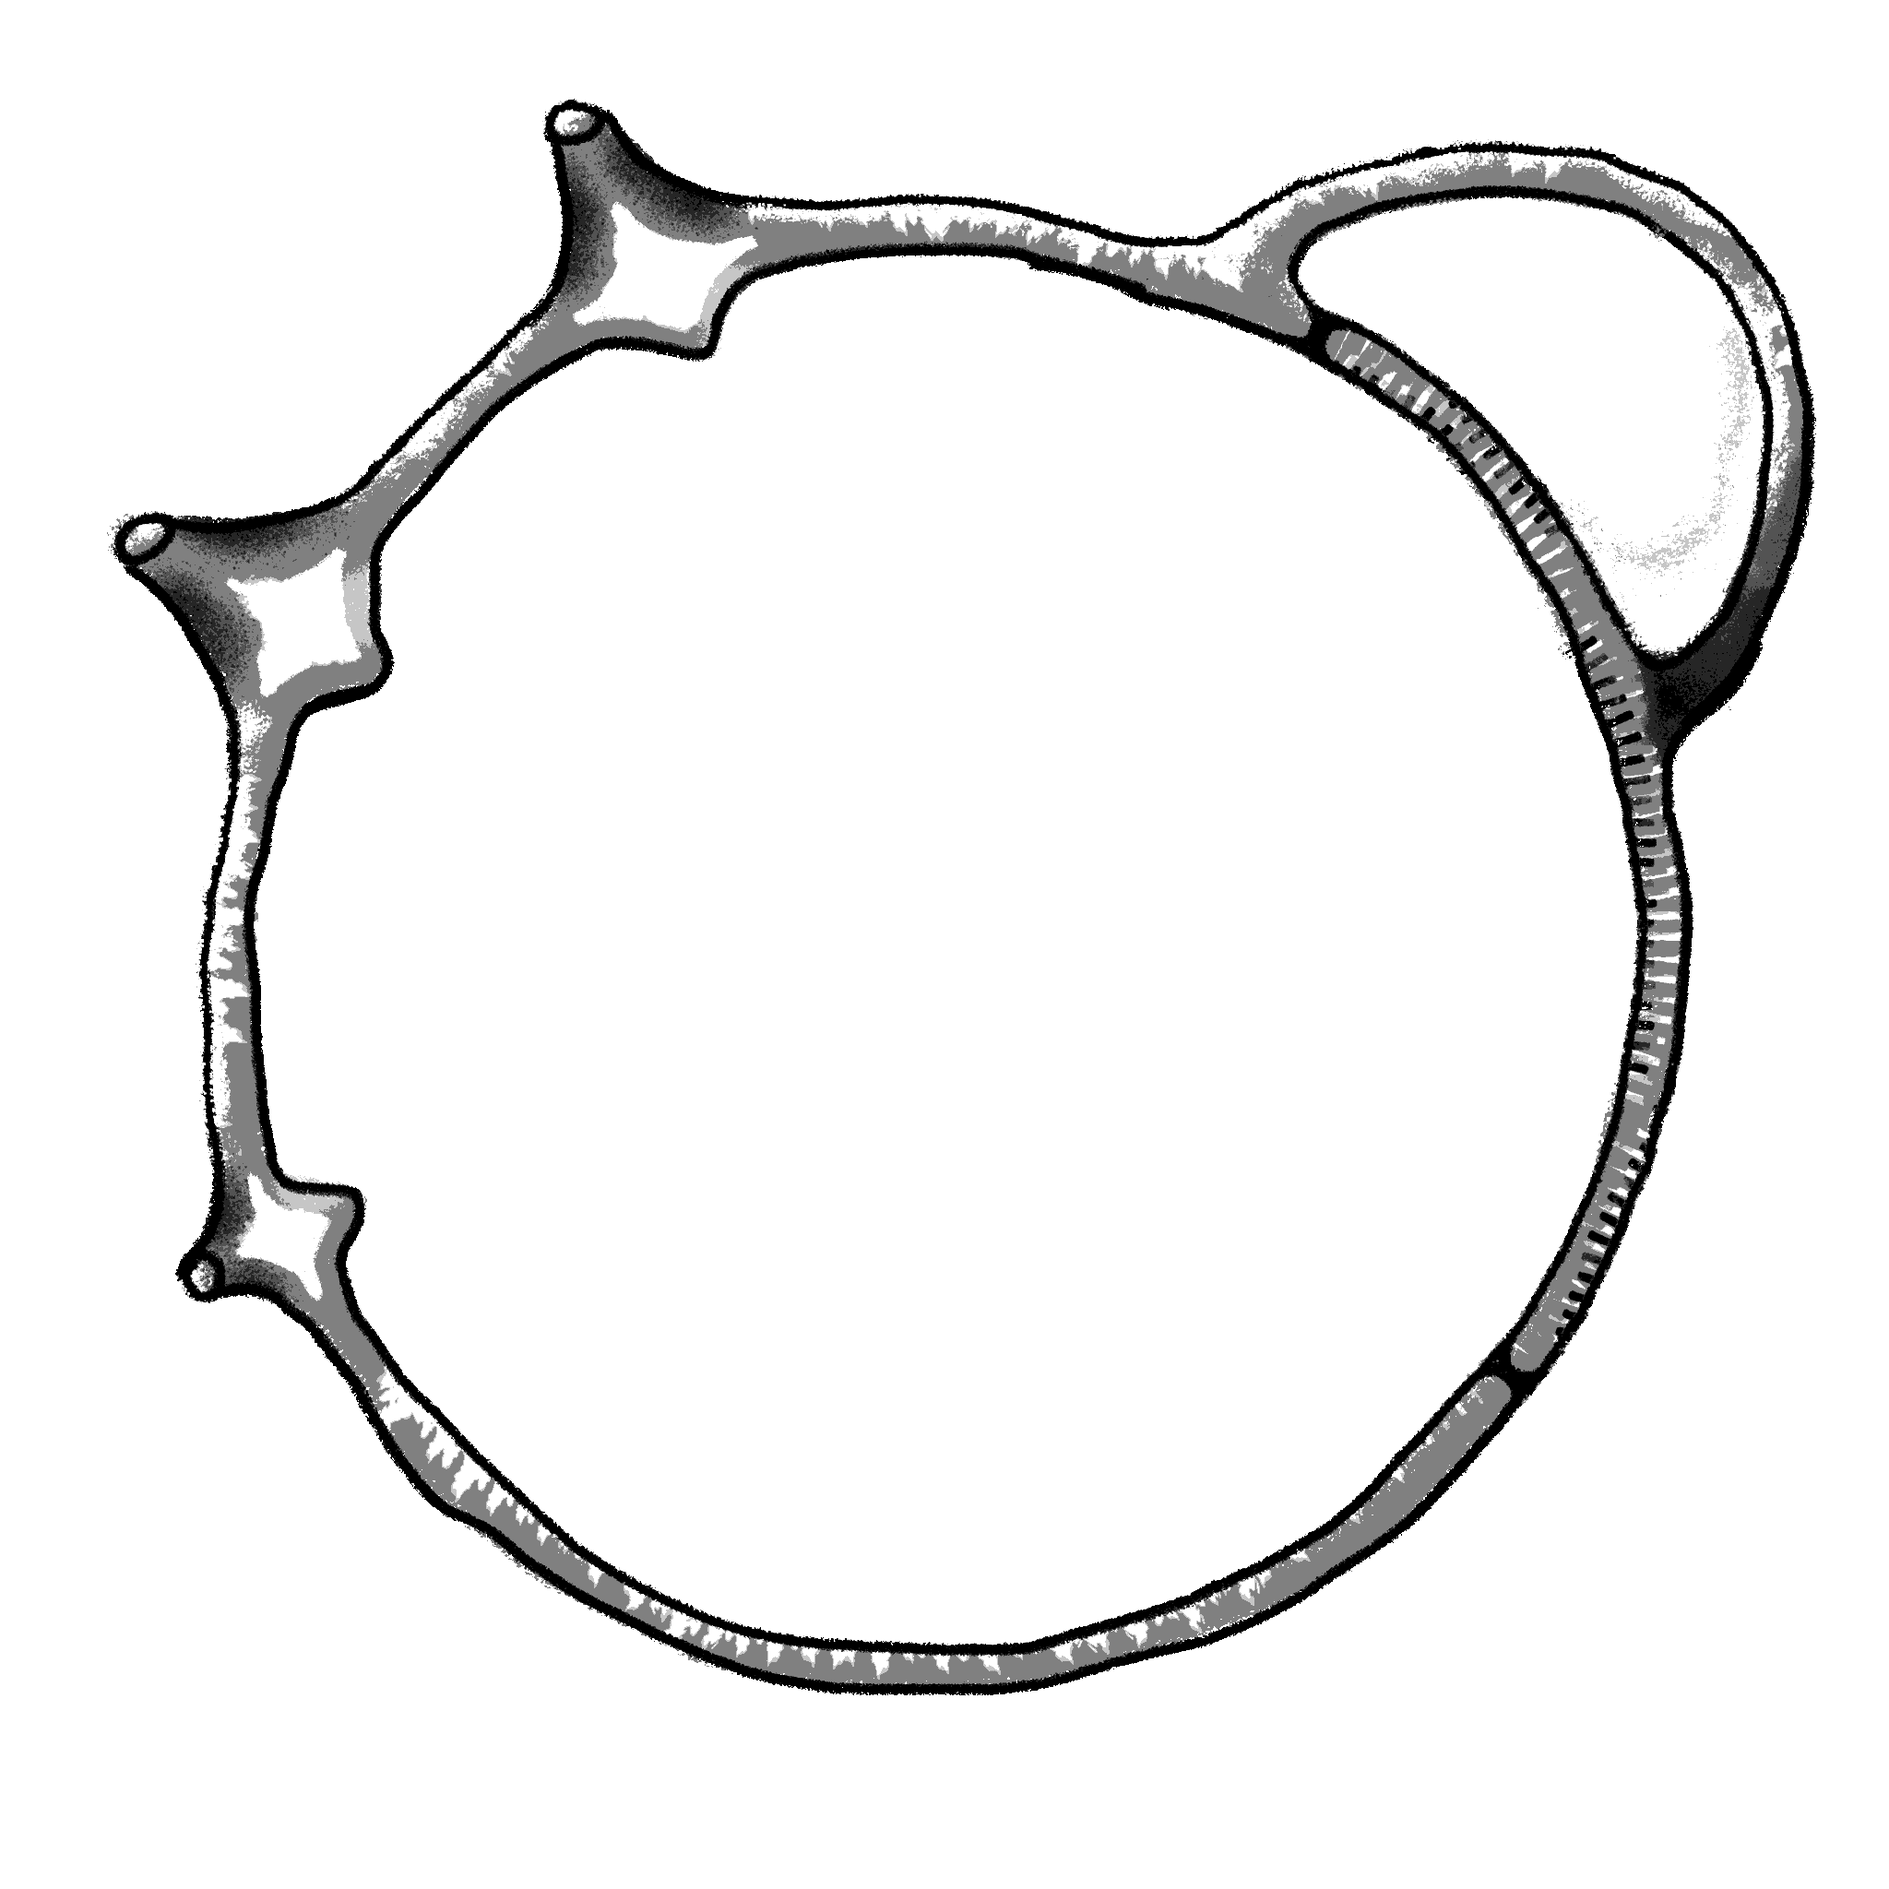
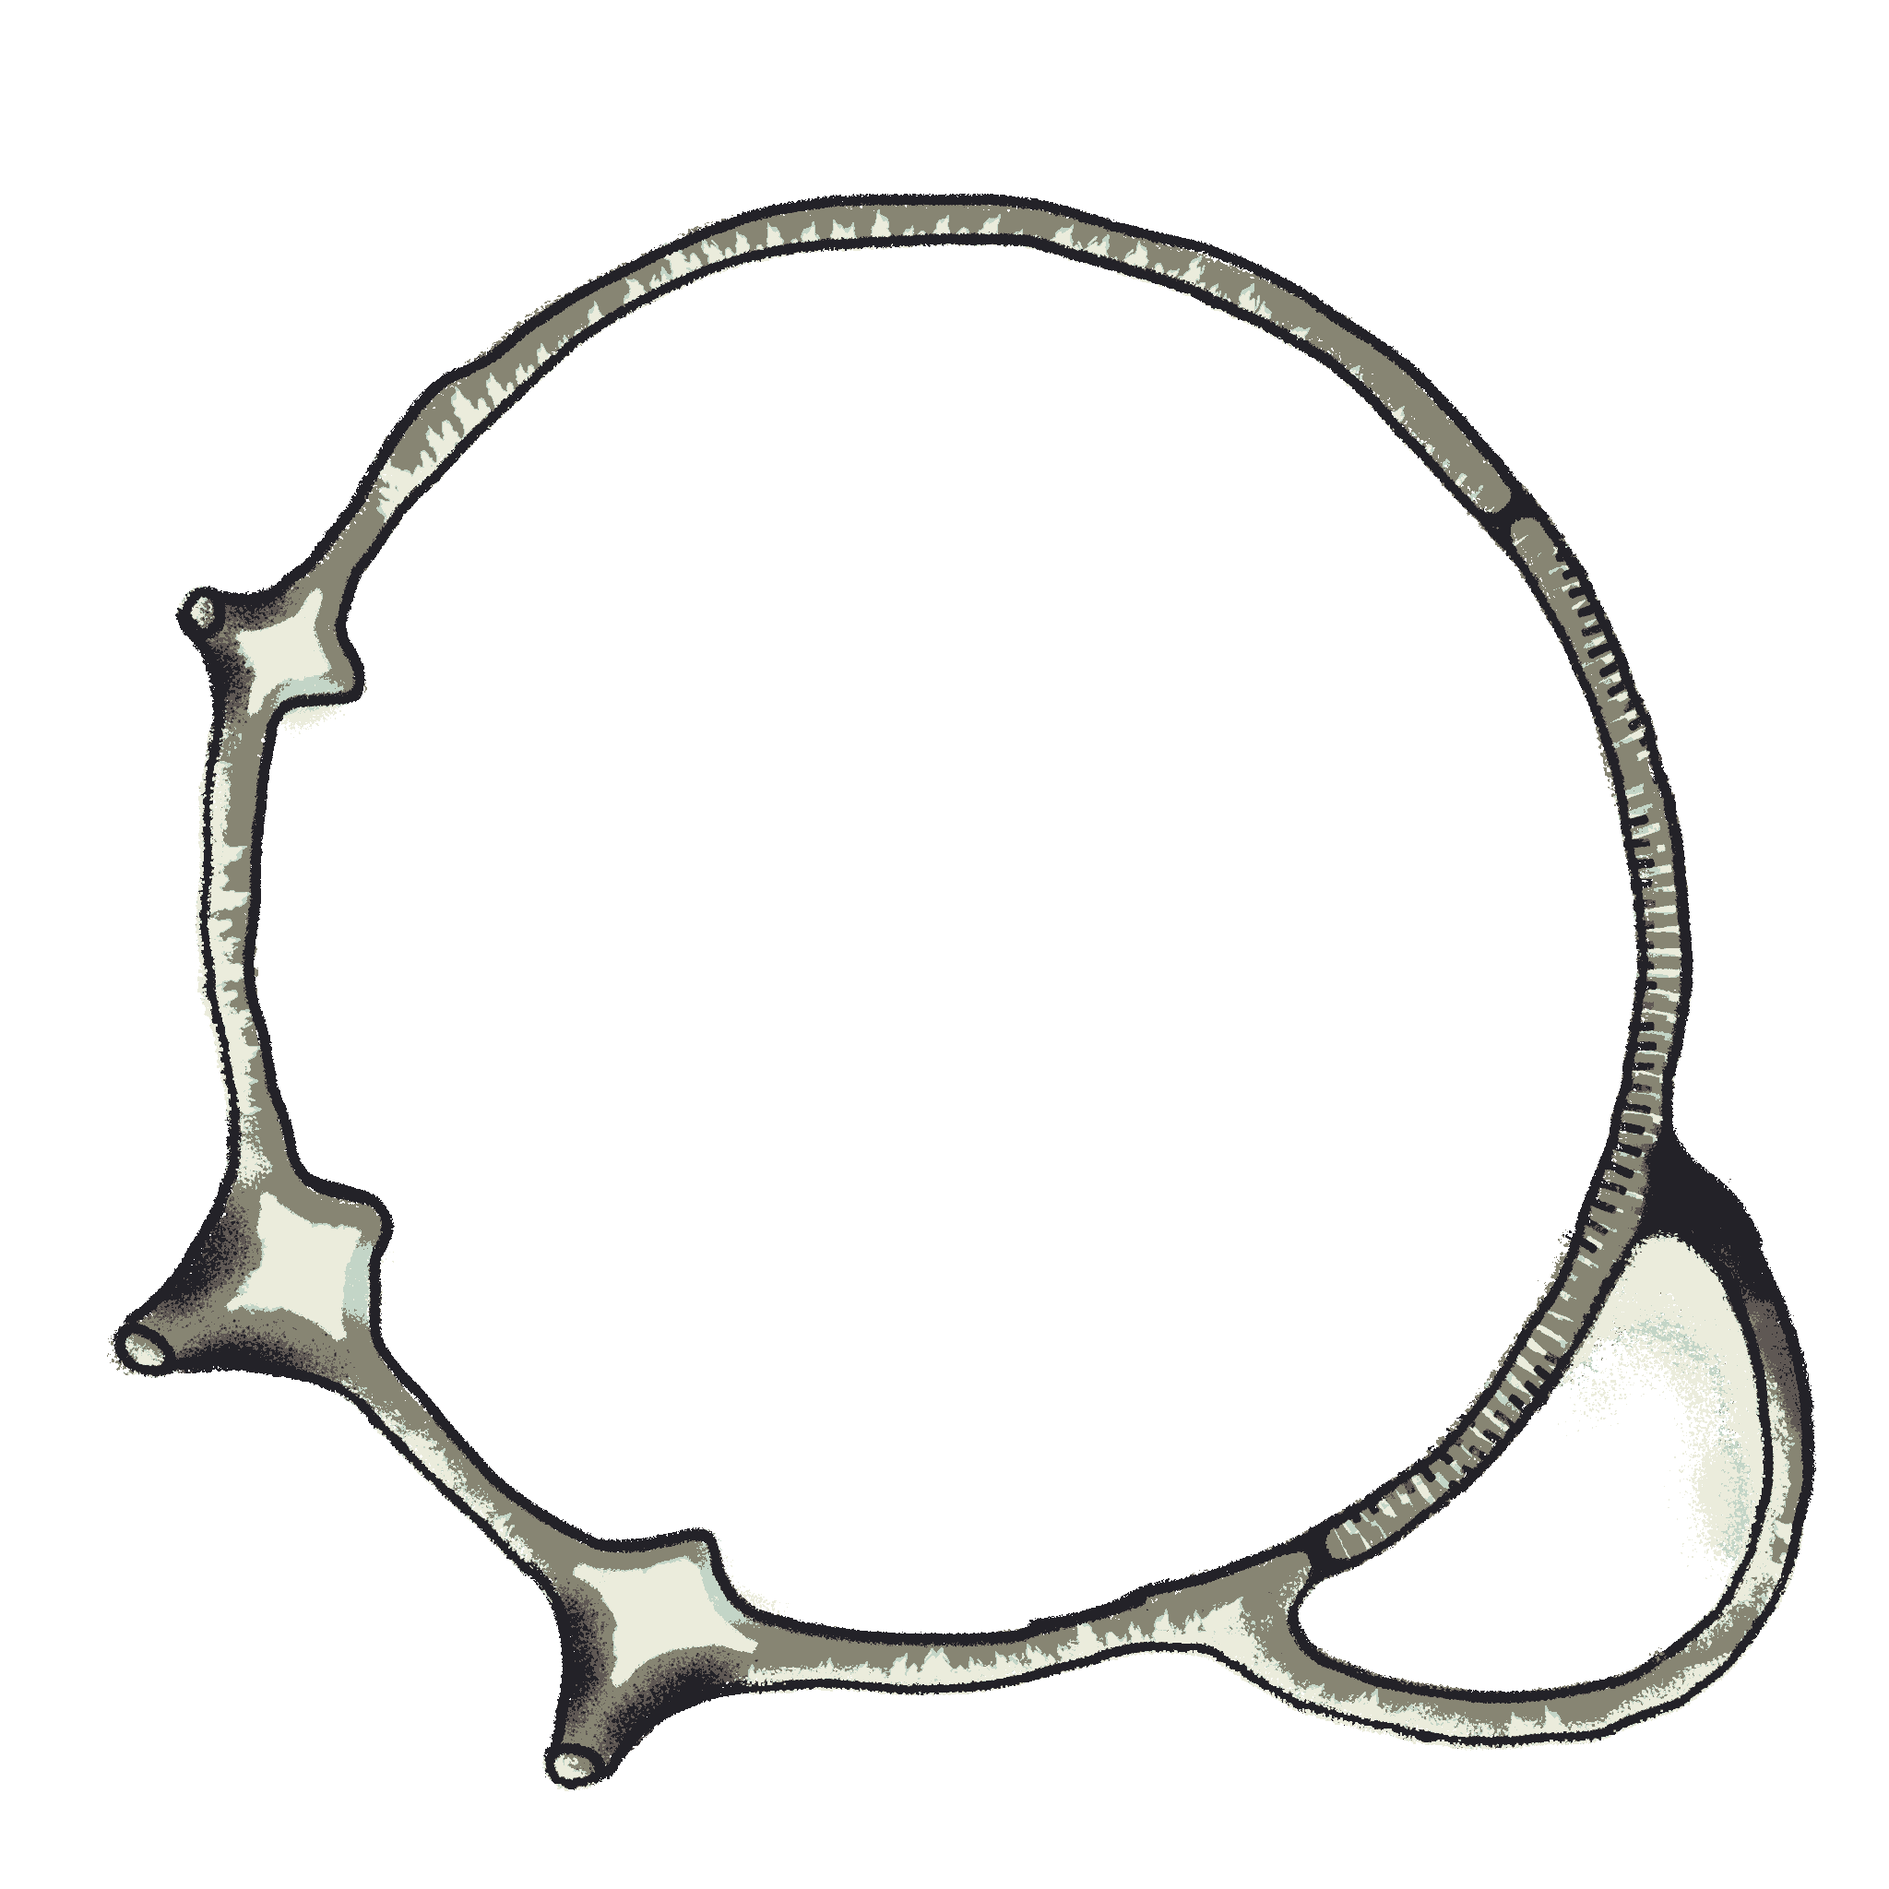
added some gui rotation baby

Changed region(s): [[0.0625, 0.0312, 0.9688, 0.9688]]

diff --git a/src/window/Main.java b/src/window/Main.java
@@ -5,17 +5,17 @@ import engine.Control;
 import engine.Manager;
 import engine.Scene;
 import object.Camera;
+import org.joml.Vector2f;
 import org.lwjgl.BufferUtils;
+import property.GUI;
 import resource.FBO;
 import org.lwjgl.opengl.GL;
+import resource.Material;
 import resource.Mesh;
 import resource.Resource;
 import scene.Dungeon;
 import scene.Forest;
-import shader.AABBShader;
-import shader.EntityShader;
-import shader.EnvironmentShader;
-import shader.FBOShader;
+import shader.*;
 
 import static org.lwjgl.glfw.GLFW.*;
 
@@ -25,8 +25,10 @@ public class Main extends Window {
     private FBOShader           fboShader;
     private AABBShader          aabbShader;
     private EnvironmentShader   environmentShader;
+    private GUIShader           guiShader;
 
     private FBO fbo;
+    private GUI gui;
 
     public static Scene scene;
 
@@ -41,11 +43,13 @@ public class Main extends Window {
 
     @Override
     public void setup() {
-        fboShader           = new FBOShader();
-        entityShader        = new EntityShader();
-        aabbShader          = new AABBShader();
-        environmentShader   = new EnvironmentShader();
+        fboShader           = new FBOShader(this);
+        entityShader        = new EntityShader(this);
+        aabbShader          = new AABBShader(this);
+        environmentShader   = new EnvironmentShader(this);
+        guiShader           = new GUIShader(this);
         fbo     = new FBO(1, width, height);
+        gui     = new GUI(new Material("ui"), new Vector2f(0.5f, 0.5f), new Vector2f(0.5f, 0.5f), 0);
         scene   = new Forest();
         Resource.process();
         Camera.listen();
@@ -64,6 +68,8 @@ public class Main extends Window {
         entityShader.render(scene);
         fboShader.unbind(fbo);
         fboShader.render(fbo);
+        gui.rotation += 0.001f;
+        guiShader.render(gui);
     }
 
 }

diff --git a/src/shader/Shader.java b/src/shader/Shader.java
@@ -9,6 +9,7 @@ import engine.Manager;
 import object.Camera;
 import org.joml.*;
 import resource.Material;
+import window.Window;
 
 import static org.lwjgl.glfw.GLFW.*;
 import static org.lwjgl.opengl.GL40.*;
@@ -22,7 +23,10 @@ public abstract class Shader<T> {
 
     protected final int program, vertex, fragment;
 
-    public Shader(String type, String... attributes) {
+    final Window window;
+
+    public Shader(Window window, String type, String... attributes) {
+        this.window = window;
         vertex      = loadShader("/resources/shader/" + type + "Vertex.glsl",     GL_VERTEX_SHADER);
         fragment    = loadShader("/resources/shader/" + type + "Fragment.glsl",   GL_FRAGMENT_SHADER);
         program     = glCreateProgram();
@@ -105,8 +109,8 @@ public abstract class Shader<T> {
                 while((line = reader.readLine())!=null){
                     if (line.startsWith("#version")) {
                         shaderSource.append("#version ").append(glfwGetWindowAttrib(Manager.main.handle, GLFW_CONTEXT_VERSION_MAJOR)).append(glfwGetWindowAttrib(Manager.main.handle, GLFW_CONTEXT_VERSION_MINOR)).append("0 core").append("//\n");
-                        shaderSource.append("#define WIDTH ").append(Manager.main.width).append("//\n");
-                        shaderSource.append("#define HEIGHT ").append(Manager.main.height).append("//\n");
+                        shaderSource.append("#define WIDTH ").append(window.width).append("//\n");
+                        shaderSource.append("#define HEIGHT ").append(window.height).append("//\n");
                         shaderSource.append("#define GRAYSCALE vec3(0.299, 0.587, 0.114)").append("//\n");
                         shaderSource.append("#define NEAR " + Camera.NEAR).append("//\n");
                         shaderSource.append("#define FAR " + Camera.FAR).append("//\n");

diff --git a/src/shader/FBOShader.java b/src/shader/FBOShader.java
@@ -5,6 +5,7 @@ import org.lwjgl.BufferUtils;
 import org.lwjgl.opengl.GL40;
 import resource.FBO;
 import resource.Mesh;
+import window.Window;
 
 import java.nio.IntBuffer;
 
@@ -12,8 +13,8 @@ import static org.lwjgl.opengl.GL40.*;
 
 public class FBOShader extends Shader<FBO> {
 
-    public FBOShader() {
-        super("fbo", "position");
+    public FBOShader(Window window) {
+        super(window, "fbo", "position");
     }
 
     private final IntBuffer oldViewport = BufferUtils.createIntBuffer(4);
@@ -24,7 +25,7 @@ public class FBOShader extends Shader<FBO> {
         glViewport(0, 0, fbo.width, fbo.height);
         glClearColor(0, 0, 0, 0);
         glClear(GL_COLOR_BUFFER_BIT | GL_DEPTH_BUFFER_BIT);
-        glEnable(GL_MULTISAMPLE);
+        //glEnable(GL_MULTISAMPLE);
         glDepthRange(0.0, 1.0);
         glClearDepth(1.0f);
         glEnable(GL_DEPTH_TEST);
@@ -46,14 +47,14 @@ public class FBOShader extends Shader<FBO> {
         glDisable(GL_DEPTH_TEST);
         uniform("width", fbo.width);
         uniform("height", fbo.height);
-        glBindVertexArray(Manager.main.quad.vao);
+        glBindVertexArray(window.quad.vao);
         glEnableVertexAttribArray(0);
         for (int i = 0; i < fbo.textures.length; i++) {
             uniform("texture" + (i + 1), i + 1);
             glActiveTexture(GL_TEXTURE0 + (i + 1));
             glBindTexture(GL_TEXTURE_2D, fbo.textures[i]);
         }
-        glDrawElements(GL_TRIANGLES, Manager.main.quad.index, GL_UNSIGNED_INT, 0);
+        glDrawElements(GL_TRIANGLES, window.quad.index, GL_UNSIGNED_INT, 0);
         for (int i = 0; i < fbo.textures.length; i++) {
             glActiveTexture(GL_TEXTURE0 + (i + 1));
             glBindTexture(GL_TEXTURE_2D, 0);

diff --git a/src/object/Camera.java b/src/object/Camera.java
@@ -21,14 +21,14 @@ public class Camera implements Machine {
     public static final Vector3f position = new Vector3f(0, 1.7f, 0);
 
     public static final float RANGE = 7.5f;
-    public static final float DEFAULT_FOV = 75;
+    public static final float DEFAULT_FOV = 90;
     public static final float SPEED = 0.015f;
     public static final float SENS  = 0.15f;
     public static final float SLOPE = 0.7071f;
     public static final float NEAR  = 0.1f;
     public static final float FAR   = Byte.MAX_VALUE * 2;
 
-    private static float FOV = 75;
+    private static float FOV = 90;
     private static float BOB = 0;
 
     public static Entity intersecting   = null;
@@ -90,7 +90,7 @@ public class Camera implements Machine {
             }
         }
         if (glfwGetInputMode(Manager.main.handle, GLFW_CURSOR) != GLFW_CURSOR_DISABLED) {
-            FOV = Math.clamp(DEFAULT_FOV, 90, FOV - (20f / Manager.RATE));
+            FOV = Math.clamp(DEFAULT_FOV, 110, FOV - (20f / Manager.RATE));
             return;
         }
         rotation.add(0, Control.dx() * -SENS, 0);
@@ -161,9 +161,9 @@ public class Camera implements Machine {
                 BOB -= 7.5f;
             }
             Camera.position.y += Math.sin(Math.toRadians(BOB)) / 30.0f;
-            FOV = Math.clamp(DEFAULT_FOV, 90, FOV + (20f / Manager.RATE));
+            FOV = Math.clamp(DEFAULT_FOV, 110, FOV + (20f / Manager.RATE));
         } else {
-            FOV = Math.clamp(DEFAULT_FOV, 90, FOV - (20f / Manager.RATE));
+            FOV = Math.clamp(DEFAULT_FOV, 110, FOV - (20f / Manager.RATE));
         }
     }
 

diff --git a/src/shader/GUIShader.java b/src/shader/GUIShader.java
@@ -7,25 +7,25 @@ import property.GUI;
 import resource.Mesh;
 import window.Main;
 import window.Map;
+import window.Window;
 
 import static org.lwjgl.opengl.GL40.*;
 
 public class GUIShader extends Shader<GUI> {
 
-    public GUIShader() {
-        super("GUI", "position");
+    public GUIShader(Window window) {
+        super(window, "GUI", "position");
         start();
         uniform("texture1", 0);
         stop();
     }
-
 
     @Override
     protected void shader(GUI gui) {
         glDisable(GL_DEPTH_TEST);
         glEnable(GL_BLEND);
         glBlendFunc(GL_SRC_ALPHA, GL_ONE_MINUS_SRC_ALPHA);
-        glBindVertexArray(Manager.map.quad.vao);
+        glBindVertexArray(window.quad.vao);
         glEnableVertexAttribArray(0);
         glEnableVertexAttribArray(1);
         glActiveTexture(GL_TEXTURE0);
@@ -33,7 +33,8 @@ public class GUIShader extends Shader<GUI> {
         uniform("texture1", 0);
         uniform("guiPosition", gui.position);
         uniform("guiScale", gui.scale);
-        glDrawElements(GL_TRIANGLES, Manager.map.quad.index, GL_UNSIGNED_INT, 0);
+        uniform("guiRotation", gui.rotation);
+        glDrawElements(GL_TRIANGLES, window.quad.index, GL_UNSIGNED_INT, 0);
         glBindTexture(GL_TEXTURE_2D, 0);
         glDisableVertexAttribArray(0);
         glDisableVertexAttribArray(1);

diff --git a/src/window/Window.java b/src/window/Window.java
@@ -44,9 +44,9 @@ public abstract class Window {
         glfwWindowHint(GLFW_VISIBLE, GLFW_FALSE);
         glfwWindowHint(GLFW_RESIZABLE, GLFW_FALSE);
         glfwWindowHint(GLFW_SCALE_TO_MONITOR, GLFW_TRUE);
-        //glfwWindowHint(GLFW_TRANSPARENT_FRAMEBUFFER, GLFW_TRUE);
-        //glfwWindowHint(GLFW_DECORATED, GLFW_FALSE);
-        glfwWindowHint(GLFW_SAMPLES, 4);
+        glfwWindowHint(GLFW_TRANSPARENT_FRAMEBUFFER, GLFW_TRUE);
+        glfwWindowHint(GLFW_DECORATED, GLFW_FALSE);
+        //glfwWindowHint(GLFW_SAMPLES, 4);
         glfwWindowHint(GLFW_FLOATING, GLFW_FALSE);
         glfwWindowHint(GLFW_AUTO_ICONIFY, GLFW_FALSE);
         glfwWindowHint(GLFW_FOCUSED, this instanceof Main ? GLFW_TRUE : GLFW_FALSE);
@@ -84,9 +84,9 @@ public abstract class Window {
             }
         }.direct();
 
-        if (this instanceof Main) {
+        //if (this instanceof Main)
             glfwShowWindow(handle);
-        }
+
 
         Console.log("Created window", title + " (" + width + "x" + height + ")");
     }

diff --git a/src/shader/EnvironmentShader.java b/src/shader/EnvironmentShader.java
@@ -4,6 +4,7 @@ import engine.Console;
 import engine.Scene;
 import object.Camera;
 import property.Entity;
+import window.Window;
 
 import static org.lwjgl.opengl.GL11.*;
 import static org.lwjgl.opengl.GL13.GL_TEXTURE0;
@@ -14,8 +15,8 @@ import static org.lwjgl.opengl.GL30.glBindVertexArray;
 
 public class EnvironmentShader extends Shader<Scene> {
 
-    public EnvironmentShader() {
-        super("env", "position", "uv");
+    public EnvironmentShader(Window window) {
+        super(window, "env", "position", "uv");
         start();
         uniform("texture1", 0);
         stop();

diff --git a/src/property/GUI.java b/src/property/GUI.java
@@ -10,15 +10,16 @@ public class GUI {
     public final Material material;
     public final Vector2f position;
     public final Vector2f scale;
+    public float rotation;
 
-    public GUI(Material material, Vector2f position, Vector2f scale) {
+    public GUI(Material material, Vector2f position, Vector2f scale, float rotation) {
         this.material = material;
         this.position = position;
         this.scale = scale;
+        this.rotation = rotation;
     }
 
     public void unbind() {
         this.material.unbind();
     }
-
 }

diff --git a/src/window/Map.java b/src/window/Map.java
@@ -16,13 +16,13 @@ public class Map extends Window {
 
     public Map(int size) {
         super(size, size);
-        gui = new GUI(new Material("wall"), new Vector2f(0.5f, 0.5f), new Vector2f(0.3f, 0.3f));
+        gui = new GUI(new Material("wall"), new Vector2f(0.5f, 0.5f), new Vector2f(0.3f, 0.3f), 0);
         glfwSetWindowPos(handle, 50, 50);
     }
 
     @Override
     public void setup() {
-        guiShader = new GUIShader();
+        guiShader = new GUIShader(this);
     }
 
     @Override

diff --git a/src/shader/EntityShader.java b/src/shader/EntityShader.java
@@ -4,13 +4,14 @@ import engine.Manager;
 import engine.Scene;
 import object.*;
 import property.Entity;
+import window.Window;
 
 import static org.lwjgl.opengl.GL40.*;
 
 public class EntityShader extends Shader<Scene> {
 
-    public EntityShader() {
-        super("entity", "position", "uv");
+    public EntityShader(Window window) {
+        super(window, "entity", "position", "uv");
     }
 
 

diff --git a/src/shader/AABBShader.java b/src/shader/AABBShader.java
@@ -5,14 +5,15 @@ import engine.Manager;
 import engine.Scene;
 import object.Camera;
 import property.Entity;
+import window.Window;
 
 import static org.lwjgl.opengl.GL40.*;
 
 
 public class AABBShader extends Shader<Entity> {
 
-    public AABBShader() {
-        super("AABB", "position");
+    public AABBShader(Window window) {
+        super(window, "AABB", "position");
     }
 
     @Override

diff --git a/src/engine/Manager.java b/src/engine/Manager.java
@@ -65,7 +65,7 @@ public class Manager {
         WIDTH = vidmode.width();
         HEIGHT = vidmode.height();
 
-        main = new Main((int) HEIGHT * 4 / 5);
+        main = new Main((int) Math.min(WIDTH, HEIGHT));
 
         if (!System.getProperty("os.name").toLowerCase().contains("mac")) {
             debugProc = GLUtil.setupDebugMessageCallback();
